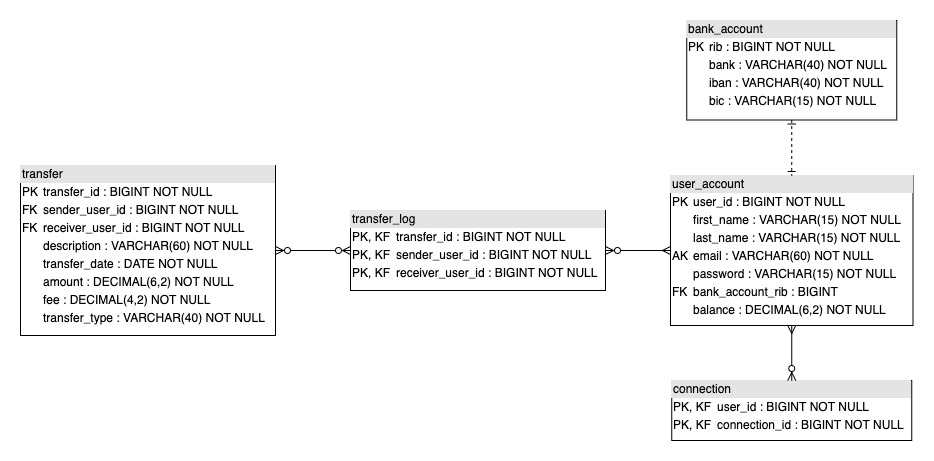
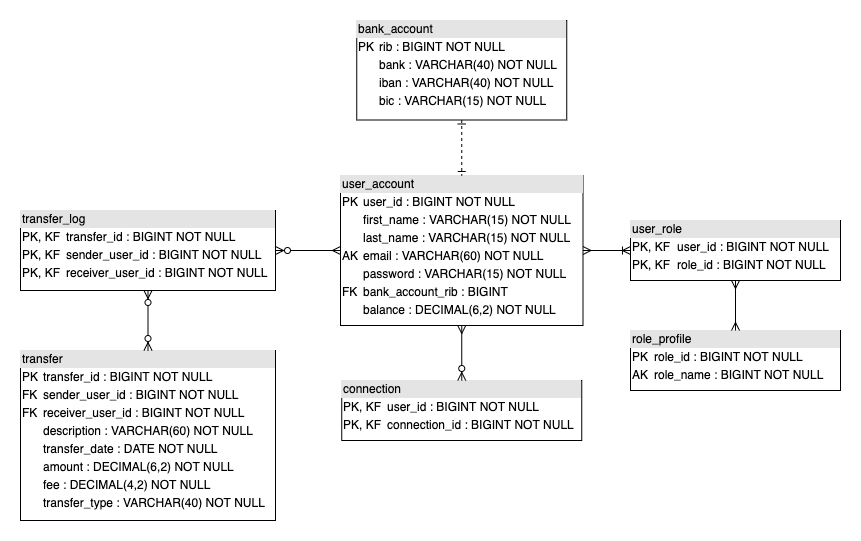
add role to model OK

diff --git a/src/main/java/com/openclassrooms/paymybuddy/configuration/SpringSecurityConfiguration.java b/src/main/java/com/openclassrooms/paymybuddy/configuration/SpringSecurityConfiguration.java
@@ -1,14 +1,36 @@
 package com.openclassrooms.paymybuddy.configuration;
 
 import org.springframework.context.annotation.Configuration;
-import org.springframework.security.config.annotation.web.builders.WebSecurity;
+import org.springframework.security.config.annotation.authentication.builders.AuthenticationManagerBuilder;
+import org.springframework.security.config.annotation.web.builders.HttpSecurity;
 import org.springframework.security.config.annotation.web.configuration.WebSecurityConfigurerAdapter;
+import org.springframework.security.crypto.bcrypt.BCryptPasswordEncoder;
+import org.springframework.security.crypto.password.PasswordEncoder;
 
 @Configuration
 public class SpringSecurityConfiguration extends WebSecurityConfigurerAdapter {
 
-    @Override
+    /*@Override
     public void configure(WebSecurity web) {
         web.ignoring().antMatchers("/**");
+    }*/
+
+    @Override
+    public void configure(AuthenticationManagerBuilder auth) throws Exception {
+        PasswordEncoder passwordEncoder = passwordEncoder();
+        auth.inMemoryAuthentication().withUser("user1").password(passwordEncoder.encode("1234")).roles("USER");
+        auth.inMemoryAuthentication().withUser("user2").password(passwordEncoder.encode("1234")).roles("USER");
+        auth.inMemoryAuthentication().withUser("admin").password(passwordEncoder.encode("1234")).roles("USER", "ADMIN");
+    }
+
+    @Override
+    public void configure(HttpSecurity http) throws Exception {
+        http.formLogin();
+        http.authorizeRequests().anyRequest().authenticated();
+        http.csrf(); // laisser activer si utilise une authentification basée sur les sessions et cookies. Si utilise une authentification stateless comme JWT, alors csrf().disabled;
+    }
+
+    public PasswordEncoder passwordEncoder() {
+        return new BCryptPasswordEncoder();
     }
 }

diff --git a/src/main/java/com/openclassrooms/paymybuddy/model/RoleProfile.java b/src/main/java/com/openclassrooms/paymybuddy/model/RoleProfile.java
@@ -1,12 +1,31 @@
 package com.openclassrooms.paymybuddy.model;
 
-public enum RoleProfil {
+import javax.persistence.*;
+import java.util.List;
+
+@Entity
+@Table(name = "role_profile")
+public class RoleProfile {
     /**
-     * Security role for user.
+     * ID, generated by DataBase.
+     * Use as primary key in DataBase.
      */
-    USER,
+    @Id
+    @GeneratedValue(strategy = GenerationType.AUTO)
+    @Column(name = "role_id")
+    private int id;
+
     /**
-     * Security role for admin only.
+     * Role name defined by RoleType enum.
+     * @see RoleType
      */
-    ADMIN
+    @Column(name = "role_name")
+    private RoleType name;
+
+    /**
+     * List of all user account which benefits of this role.
+     * @see UserAccount
+     */
+    @ManyToMany(mappedBy = "roles")
+    private List<UserAccount> users;
 }

diff --git a/src/main/java/com/openclassrooms/paymybuddy/model/UserAccount.java b/src/main/java/com/openclassrooms/paymybuddy/model/UserAccount.java
@@ -56,6 +56,17 @@ public class UserAccount {
     private String password;
 
     /**
+     * Security role : User / User and Admin.
+     * @see RoleProfile
+     */
+    @NotNull
+    @ManyToMany
+    @JoinTable(name = "user_role",
+            joinColumns = @JoinColumn( name = "user_id", referencedColumnName = "user_id"),
+            inverseJoinColumns = @JoinColumn(name = "role_id", referencedColumnName = "role_id"))
+    private List<RoleProfile> roles;
+
+    /**
      * Associated bank account.
      * @see BankAccount
      */

diff --git a/src/main/java/com/openclassrooms/paymybuddy/model/RoleType.java b/src/main/java/com/openclassrooms/paymybuddy/model/RoleType.java
@@ -1,4 +1,12 @@
 package com.openclassrooms.paymybuddy.model;
 
 public enum RoleType {
+    /**
+     * User role.
+     */
+    USER,
+    /**
+     * Admin role.
+     */
+    ADMIN
 }
